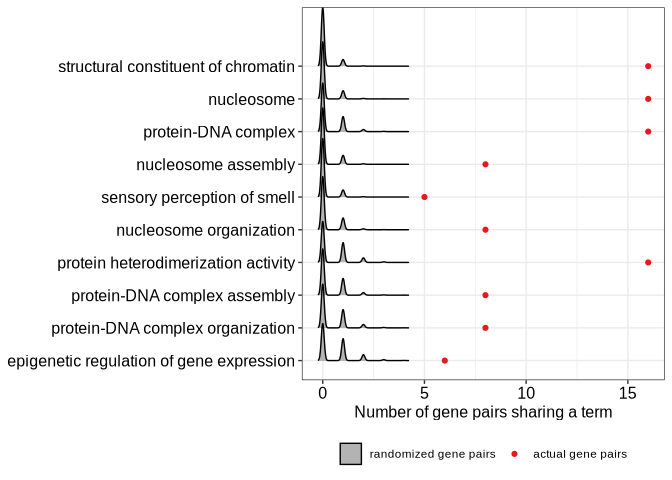
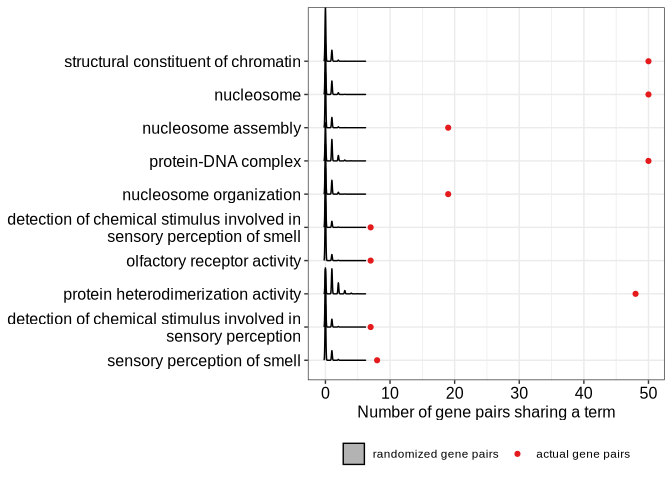
Update README

diff --git a/README.md b/README.md
@@ -7,10 +7,13 @@
 
 <!-- badges: end -->
 
-GO-a-GO annotates functional terms that are overrepresented in a given
-set of gene pairs. The enrichment of Gene Ontology terms is calculated
-from a permutation test for overrepresentation of gene pairs that are
-associated with a common term.
+GO-a-GO annotates Gene Ontology terms that are enriched in a given set
+of gene pairs. The enrichment is calculated from a permutation test for
+overrepresentation of gene pairs that are associated with a common term.
+Such gene pairs are counted for the original set of gene pairs and
+compared against randomized sets in which the structure of the pairs is
+preserved, but the gene identities (including the associated terms) are
+permuted.
 
 ## Installation
 
@@ -24,49 +27,40 @@ devtools::install_github("ajank/GOaGO")
 
 ## Example
 
-Let us run GO-a-GO on a set of gene pairs associated with human
-GM12878-specific chromatin loops. We can inspect a few rows of the
-dataset:
+Let us run GO-a-GO on a set of gene pairs associated with chromatin
+loops identified in human cell line GM12878. We can inspect a few rows
+of the dataset:
 
 ``` r
 library(GOaGO)
 #> 
 
-data("genePairsGM12878Specific")
-head(genePairsGM12878Specific, 10)
-#>     loopID chrom1    start1      end1 centroid1 distance_to_TSS1 geneID1 chrom2
-#>      <int> <char>     <int>     <int>     <int>            <int>  <char> <char>
-#>  1:     19  chr10 103600000 103605000 103598750                0   30819  chr10
-#>  2:     23  chr10 103985000 103990000 103987500                0   83401  chr10
-#>  3:     24  chr10 103985000 103990000 103990000                0   83401  chr10
-#>  4:     28  chr10 104595000 104600000 104600000                0    1586  chr10
-#>  5:     37  chr10 105725000 105730000 105725833                0    9748  chr10
-#>  6:    117  chr10 131260000 131270000 131270000                0    4255  chr10
-#>  7:    120  chr10  13200000  13205000  13204166                0   55388  chr10
-#>  8:    124  chr10 134140000 134150000 134145000                0   80313  chr10
-#>  9:    124  chr10 134140000 134150000 134145000                0  282974  chr10
-#> 10:    126  chr10 134340000 134350000 134345000             1352    3632  chr10
-#>        start2      end2 centroid2 distance_to_TSS2 geneID2 loop_distance
-#>         <int>     <int>     <int>            <int>  <char>         <int>
-#>  1: 103830000 103835000 103831250             4876   79803        232500
-#>  2: 104160000 104165000 104162500             4040    5662        175000
-#>  3: 104235000 104240000 104237500             7085   79847        247500
-#>  4: 105000000 105005000 105000000              643  729020        400000
-#>  5: 105880000 105885000 105880833                0  119392        155000
-#>  6: 131900000 131910000 131905000                0  119437        635000
-#>  7:  13340000  13345000  13344166                0    5264        140000
-#>  8: 135070000 135080000 135075000             9497     101        930000
-#>  9: 135070000 135080000 135075000             9497     101        930000
-#> 10: 135060000 135070000 135065000             8592   27287        720000
+data("genePairsGM12878")
+head(genePairsGM12878)
+#>    loopID chrom1    start1      end1 centroid1 geneID1      tss1 strand1 chrom2
+#>     <int> <char>     <int>     <int>     <int>  <char>     <int>  <char> <char>
+#> 1:      3  chr10 101190000 101195000 101195833    2805 101190530       -  chr10
+#> 2:      7  chr10 102100000 102110000 102100714    6319 102106772       +  chr10
+#> 3:      7  chr10 102100000 102110000 102100714    6319 102106772       +  chr10
+#> 4:     10  chr10 102810000 102815000 102803750   81621 102820999       +  chr10
+#> 5:     19  chr10 103600000 103605000 103598750   30819 103603677       -  chr10
+#> 6:     23  chr10 103985000 103990000 103987500   83401 103986143       +  chr10
+#>       start2      end2 centroid2 geneID2      tss2 strand2
+#>        <int>     <int>     <int>  <char>     <int>  <char>
+#> 1: 101370000 101375000 101373333   81894 101372701       -
+#> 2: 102270000 102280000 102277857   25956 102276754       -
+#> 3: 102270000 102280000 102277857   25956 102279595       -
+#> 4: 102900000 102905000 102903750    3195 102891061       +
+#> 5: 103830000 103835000 103831250   79803 103825124       +
+#> 6: 104160000 104165000 104162500    5662 104169041       -
 ```
 
 The column names ending with `1` and `2` refer to the first and second
 loop anchors, respectively. The essential columns are: `geneID1` and
-`geneID2` (gene identifiers from a database of choice), `pairID`
-(identifier of a gene pair), and `loopID` (identifier of a chromatin
-loop). As some loop anchors overlapped Transcription Start Sites of
-multiple genes, the dataset contains all gene combinations for these
-loops.
+`geneID2` (gene identifiers from a database of choice) and `loopID`
+(identifier of a chromatin loop). As some loop anchors overlapped
+multiple Transcription Start Sites, possibly of many genes, for these
+loops the dataset contains all combinations.
 
 When running GO-a-GO, we should specify that gene identifiers are from
 the Entrez database, and use the Bioconductor `org.Hs.eg.db` package as
@@ -83,50 +77,51 @@ library(org.Hs.eg.db)
 library(BiocParallel)
 options(MulticoreParam = MulticoreParam(workers = 2))
 
-goago <- GOaGO(genePairsGM12878Specific,
+goago <- GOaGO(genePairsGM12878,
     keyType = "ENTREZID", OrgDb = org.Hs.eg.db, ont = "ALL"
 )
-#> Warning in uniqueGenePairs(genePairs): removing 6 duplicated gene pair(s)
-#> Warning in uniqueGenePairs(genePairs): removing 30 gene pair(s) containing the
+#> Warning in uniqueGenePairs(genePairs): removing 509 duplicated gene pair(s)
+#> Warning in uniqueGenePairs(genePairs): removing 87 gene pair(s) containing the
 #> same gene twice
 ```
 
-We can inspect the overrepresented GO terms:
+We can inspect the enriched GO terms:
 
 ``` r
-head(goago@result)
+head(as.data.frame(goago))
 #>   ONTOLOGY         ID
 #> 1       BP GO:0034728
 #> 2       BP GO:0006334
-#> 3       BP GO:0040029
-#> 4       BP GO:0071824
-#> 5       BP GO:0065004
+#> 3       BP GO:0071824
+#> 4       BP GO:0040029
+#> 5       BP GO:0002495
 #> 6       BP GO:0019886
 #>                                                                         Description
 #> 1                                                           nucleosome organization
 #> 2                                                               nucleosome assembly
-#> 3                                          epigenetic regulation of gene expression
-#> 4                                                  protein-DNA complex organization
-#> 5                                                      protein-DNA complex assembly
+#> 3                                                  protein-DNA complex organization
+#> 4                                          epigenetic regulation of gene expression
+#> 5           antigen processing and presentation of peptide antigen via MHC class II
 #> 6 antigen processing and presentation of exogenous peptide antigen via MHC class II
-#>   Count       Ratio      BgRatio FoldEnrichment pvalue p.adjust qvalue
-#> 1     8 0.010322581 0.0002703226       38.18616      0        0      0
-#> 2     8 0.010322581 0.0001983226       52.04945      0        0      0
-#> 3     6 0.007741935 0.0007245161       10.68566      0        0      0
-#> 4     8 0.010322581 0.0005188387       19.89555      0        0      0
-#> 5     8 0.010322581 0.0004468387       23.10136      0        0      0
-#> 6     2 0.002580645 0.0000196129      131.57895      0        0      0
+#>   Count   PairRatio      BgRatio FoldEnrichment pvalue p.adjust qvalue
+#> 1    19 0.010900746 1.580608e-04       68.96552      0        0      0
+#> 2    19 0.010900746 1.053356e-04      103.48584      0        0      0
+#> 3    19 0.010900746 3.423982e-04       31.83646      0        0      0
+#> 4    15 0.008605852 4.303500e-04       19.99733      0        0      0
+#> 5     3 0.001721170 1.491681e-05      115.38462      0        0      0
+#> 6     3 0.001721170 1.187608e-05      144.92754      0        0      0
 ```
 
 Note that some of the *p*-values have the value of zero, which means
 that for all the randomizations fewer gene pairs were associated with a
 given term than in the input dataset.
 
-We can plot the overrepresented GO terms as a dotplot. The x-axis shows
-the log<sub>2</sub> fold change of the fraction of gene pairs sharing
-the given term; `Ratio` is the fraction in the input gene pairs, while
-`BgRatio` is the fraction in permuted ones. Color indicates the adjusted
-*p*-value:
+We can plot the enriched GO terms as a dotplot. The X-axis shows the
+fold enrichment of the fraction of gene pairs sharing the given term,
+calculated as a quotient of `PairRatio` (the fraction in the input gene
+pairs) and `BgRatio` (the fraction in permuted ones). Point size
+indicates the number of input gene pairs sharing the given term, and
+point color – the adjusted *p*-value:
 
 ``` r
 DotPlot(goago)
@@ -144,7 +139,7 @@ distributions, empirical *p*-values were calculated:
 
 ``` r
 RidgePlot(goago)
-#> Picking joint bandwidth of 0.0717
+#> Picking joint bandwidth of 0.0684
 ```
 
 <img src="man/figures/README-ridgeplot-1.png" width="100%" />
